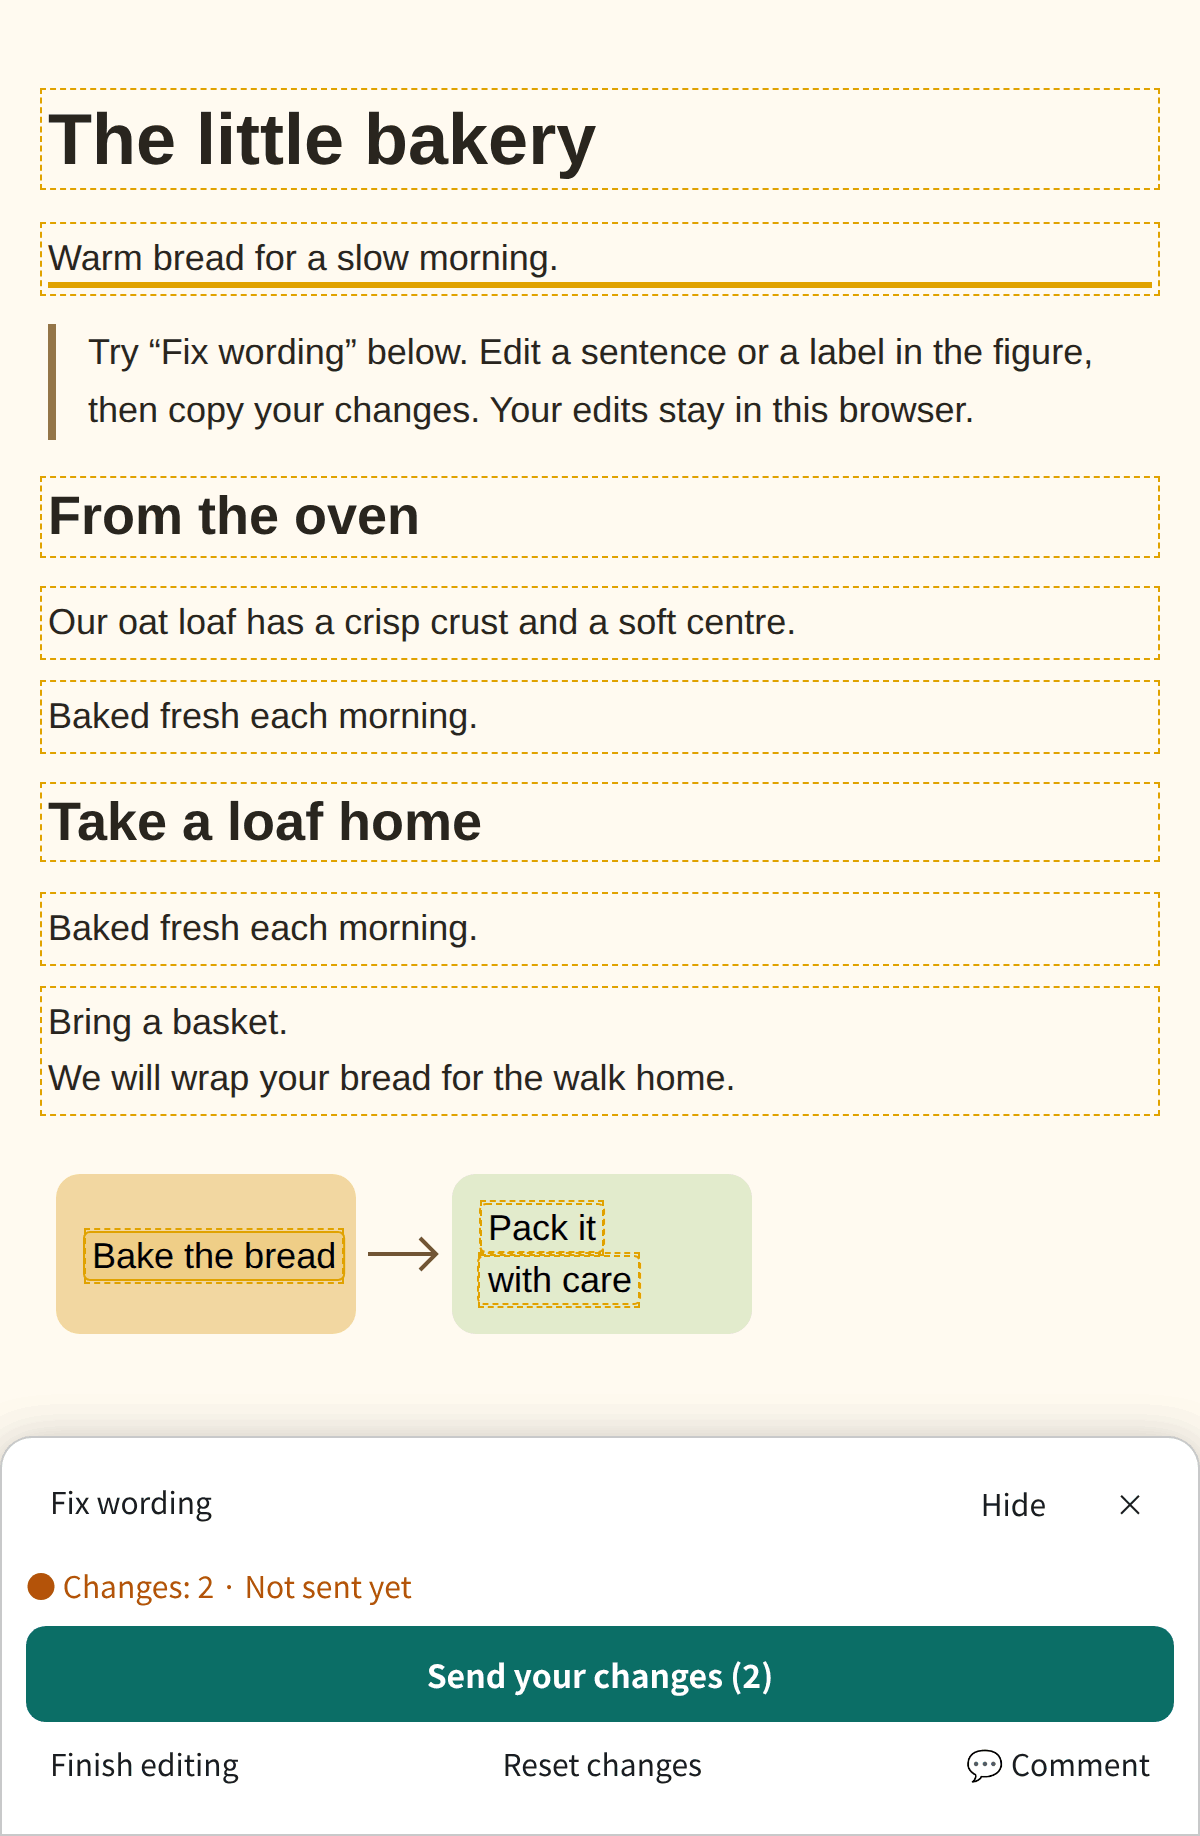
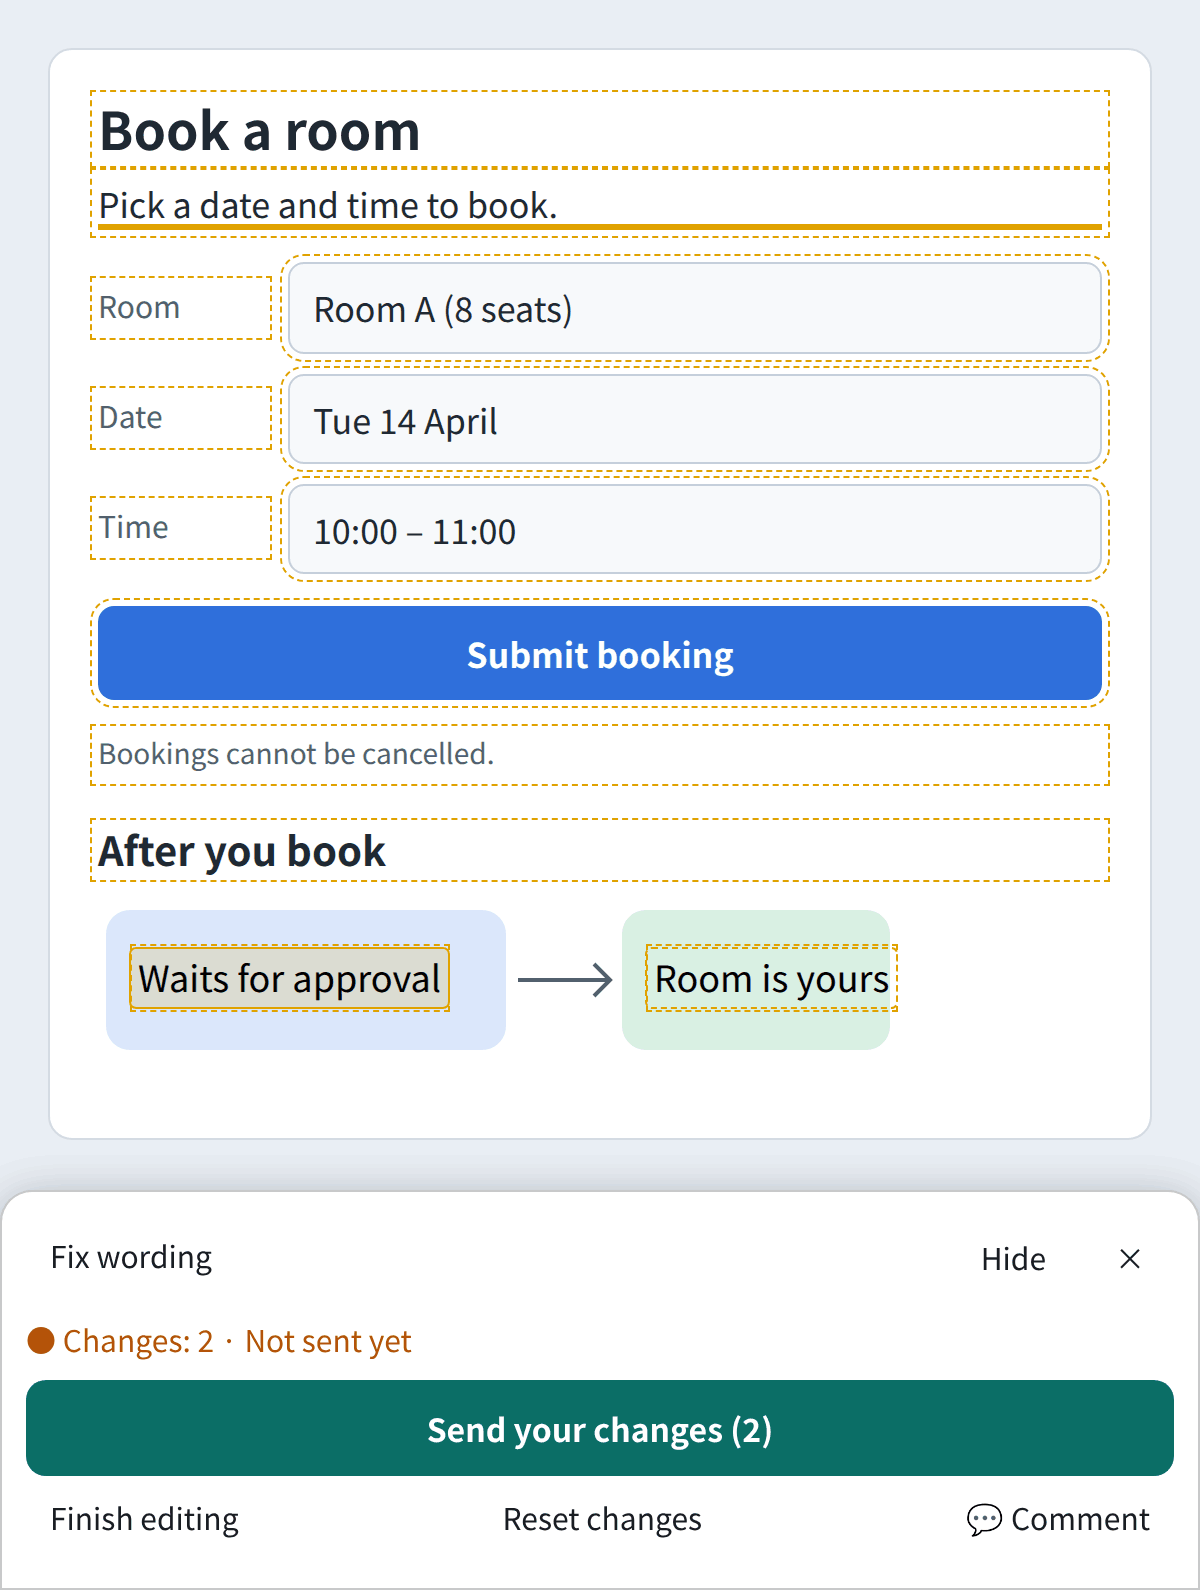
Show a mockup screen instead of the bakery page in the README screenshots
Fixing the wording of a mockup is what the tool is for, so the edit, comment
and paste screenshots now use an invented room-booking screen, and the first
example list in both READMEs is the text the tool produces for the edits shown
in the first screenshot.

diff --git a/docs/images/pages/booking.ja.html b/docs/images/pages/booking.ja.html
@@ -1,0 +1,42 @@
+<!doctype html>
+<html lang="ja">
+<head>
+  <meta charset="utf-8">
+  <meta name="viewport" content="width=device-width, initial-scale=1">
+  <title>会議室予約（モック）</title>
+  <style>
+    body { max-width: 42rem; margin: auto; padding: 24px; font: 17px/1.6 'Noto Sans CJK JP', 'Hiragino Sans', 'Yu Gothic', sans-serif; color: #1f2933; background: #e9eef4; }
+    .card { background: #fff; border: 1px solid #d3dbe4; border-radius: 12px; padding: 24px; }
+    h1, h2 { line-height: 1.2; }
+    h1 { margin: 0 0 8px; font-size: 26px; }
+    h2 { margin: 24px 0 8px; font-size: 20px; }
+    p { margin: 0 0 16px; }
+    .row { display: flex; align-items: center; gap: 12px; margin: 0 0 10px; }
+    .row span { flex: none; width: 5.5em; color: #52606d; font-size: 15px; }
+    .row div { flex: 1; border: 1px solid #c5cfdb; border-radius: 8px; padding: 8px 12px; background: #f7f9fb; }
+    .btn { display: block; margin: 16px 0; padding: 10px 16px; border-radius: 8px; background: #2f6fdb; color: #fff; font-weight: 600; text-align: center; }
+    .note { margin: 0; font-size: 14px; color: #52606d; }
+    svg { display: block; max-width: 100%; height: auto; }
+  </style>
+</head>
+<body>
+  <div class="card">
+    <h1>会議室を予約する</h1>
+    <p>ご希望の日時を選択して予約を行ってください。</p>
+    <div class="row"><span>会議室</span><div>会議室A（8席）</div></div>
+    <div class="row"><span>日付</span><div>4月14日（火）</div></div>
+    <div class="row"><span>時間</span><div>10:00〜11:00</div></div>
+    <div class="btn">予約を送信</div>
+    <p class="note">予約は取り消せません。</p>
+    <h2>予約のあと</h2>
+    <svg viewBox="0 0 400 100" width="400" role="img" aria-label="予約のあとの流れ">
+      <rect x="4" y="10" width="200" height="70" rx="12" fill="#dbe7fb"/>
+      <rect x="262" y="10" width="134" height="70" rx="12" fill="#d9f0e3"/>
+      <path d="M210 45h46m-8-8 8 8-8 8" fill="none" stroke="#52606d" stroke-width="2"/>
+      <text x="20" y="51" font-size="18">承認待ち</text>
+      <text x="278" y="51" font-size="18">利用できます</text>
+    </svg>
+  </div>
+  <script src="../../../fixwords.js"></script>
+</body>
+</html>

diff --git a/docs/images/pages/booking.en.html b/docs/images/pages/booking.en.html
@@ -1,0 +1,42 @@
+<!doctype html>
+<html lang="en">
+<head>
+  <meta charset="utf-8">
+  <meta name="viewport" content="width=device-width, initial-scale=1">
+  <title>Room booking (mockup)</title>
+  <style>
+    body { max-width: 42rem; margin: auto; padding: 24px; font: 17px/1.6 system-ui, -apple-system, "Segoe UI", Helvetica, Arial, sans-serif; color: #1f2933; background: #e9eef4; }
+    .card { background: #fff; border: 1px solid #d3dbe4; border-radius: 12px; padding: 24px; }
+    h1, h2 { line-height: 1.2; }
+    h1 { margin: 0 0 8px; font-size: 26px; }
+    h2 { margin: 24px 0 8px; font-size: 20px; }
+    p { margin: 0 0 16px; }
+    .row { display: flex; align-items: center; gap: 12px; margin: 0 0 10px; }
+    .row span { flex: none; width: 5.5em; color: #52606d; font-size: 15px; }
+    .row div { flex: 1; border: 1px solid #c5cfdb; border-radius: 8px; padding: 8px 12px; background: #f7f9fb; }
+    .btn { display: block; margin: 16px 0; padding: 10px 16px; border-radius: 8px; background: #2f6fdb; color: #fff; font-weight: 600; text-align: center; }
+    .note { margin: 0; font-size: 14px; color: #52606d; }
+    svg { display: block; max-width: 100%; height: auto; }
+  </style>
+</head>
+<body>
+  <div class="card">
+    <h1>Book a room</h1>
+    <p>Please select your desired date and time to make a booking.</p>
+    <div class="row"><span>Room</span><div>Room A (8 seats)</div></div>
+    <div class="row"><span>Date</span><div>Tue 14 April</div></div>
+    <div class="row"><span>Time</span><div>10:00 – 11:00</div></div>
+    <div class="btn">Submit booking</div>
+    <p class="note">Bookings cannot be cancelled.</p>
+    <h2>After you book</h2>
+    <svg viewBox="0 0 400 100" width="400" role="img" aria-label="What happens after booking">
+      <rect x="4" y="10" width="200" height="70" rx="12" fill="#dbe7fb"/>
+      <rect x="262" y="10" width="134" height="70" rx="12" fill="#d9f0e3"/>
+      <path d="M210 45h46m-8-8 8 8-8 8" fill="none" stroke="#52606d" stroke-width="2"/>
+      <text x="20" y="51" font-size="18">Awaiting approval</text>
+      <text x="278" y="51" font-size="18">Room is yours</text>
+    </svg>
+  </div>
+  <script src="../../../fixwords.js"></script>
+</body>
+</html>

diff --git a/docs/images/pages/chat.ja.html b/docs/images/pages/chat.ja.html
@@ -17,7 +17,7 @@
   </style>
 </head>
 <body>
-  <div class="msg author"><div class="avatar">作</div><div class="body"><p class="name">作った人</p><p>パン屋のページを見てくれてありがとう。直した文言の一覧をここに貼ってください。</p></div></div>
+  <div class="msg author"><div class="avatar">作</div><div class="body"><p class="name">作った人</p><p>予約画面を見てくれてありがとう。直した文言の一覧をここに貼ってください。</p></div></div>
   <div class="msg reader"><div class="avatar">直</div><div class="body"><p class="name">直す人</p><pre id="report"></pre></div></div>
 </body>
 </html>

diff --git a/docs/images/pages/chat.en.html b/docs/images/pages/chat.en.html
@@ -17,7 +17,7 @@
   </style>
 </head>
 <body>
-  <div class="msg author"><div class="avatar">A</div><div class="body"><p class="name">Author</p><p>Thanks for looking at the bakery page. Please paste the list of wording fixes here.</p></div></div>
+  <div class="msg author"><div class="avatar">A</div><div class="body"><p class="name">Author</p><p>Thanks for looking at the booking screen. Please paste the list of wording fixes here.</p></div></div>
   <div class="msg reader"><div class="avatar">R</div><div class="body"><p class="name">Reader</p><pre id="report"></pre></div></div>
 </body>
 </html>

diff --git a/README.ja.md b/README.ja.md
@@ -4,20 +4,20 @@
 
 共有したページの文言を、見た人が自分で直せるようにする小さな道具です。
 
-<p><img src="docs/images/edit-ja.png" width="440" alt="文言を直すモードのパン屋のページ。最初の文と図の中の文字が書き換えられて色が付き、下のバーに「2 か所を直しました」と出ている。"></p>
+<p><img src="docs/images/edit-ja.png" width="440" alt="文言を直すモードの会議室予約のモック画面。最初の文と図の中の文字が書き換えられて色が付き、下のバーに「2 か所を直しました」と出ている。"></p>
 
 モックや下書きのページを作って（AI に作らせた場合も含みます）、コードを書かない同僚に見てもらったとします。
 同僚は、直したい言い回しを見つけます。fixwords を入れたページなら、同僚は画面の上でその文字を書き換え、ボタンを1つ
 押して、できた一覧をチャットやメールに貼って送るだけです。
 
 ```
-小さなパン屋 文言の直し
+会議室予約（モック） 文言の直し
 
-1. 元：ゆっくりした朝のための、あたたかいパン。
-   新：ゆっくりした朝に、あたたかいパンを。
+1. 元：ご希望の日時を選択して予約を行ってください。
+   新：使いたい日時を選んで予約します。
 
-2. （図）元：パンを焼く
-   新：パンを焼き上げる
+2. （図）元：承認待ち
+   新：承認を待ちます
 ```
 
 作った人は、届いた一覧どおりに元のファイルを直します。AI に貼って直させることもできます。
@@ -56,7 +56,7 @@ AI に作業させている場合は、こう頼めば済みます。
 5. 「直した内容を送る」を押す。スマホやタブレットでは共有の画面が開きます。パソコンでは一覧がコピーされます。
    それを作った人へのチャットやメールに貼って送ります。
 
-<p><img src="docs/images/comment-ja.png" width="440" alt="コメントモードのパン屋のページ。ある文には保存済みのコメントがあり点線の下線が付いている。別の文にはコメント欄が開いて質問が書かれている。"></p>
+<p><img src="docs/images/comment-ja.png" width="440" alt="コメントモードの会議室予約のモック画面。最初の文には保存済みのコメントがあり点線の下線が付いている。取り消しについての注意書きにはコメント欄が開いて質問が書かれている。"></p>
 
 送る一覧は次のようになります。コメントは直しのあとに続きます。
 
@@ -75,7 +75,7 @@ AI に作業させている場合は、こう頼めば済みます。
 
 チャットに貼ったところ:
 
-<p><img src="docs/images/paste-ja.png" width="440" alt="直す人が一覧をチャットに貼ったところ。2か所の書き換えと1件のコメントが並んでいる。"></p>
+<p><img src="docs/images/paste-ja.png" width="440" alt="直す人が一覧をチャットに貼ったところ。2か所の書き換えと、取り消しについての注意書きへの1件のコメントが並んでいる。"></p>
 
 直した内容とコメントは、そのブラウザーの中（localStorage）に残ります。ページを閉じても、あとで続きができます。
 一覧を送るまでは、誰にも届きません。

diff --git a/README.md b/README.md
@@ -4,20 +4,20 @@
 
 Let the people you shared a page with fix its wording themselves.
 
-<p><img src="docs/images/edit-en.png" width="440" alt="A bakery page in edit mode. The first sentence and a label in the figure were rewritten and are highlighted, and the fixwords bar at the bottom shows 2 changes."></p>
+<p><img src="docs/images/edit-en.png" width="440" alt="A room booking mockup in edit mode. The lead sentence and a label in the figure were rewritten and are highlighted, and the fixwords bar at the bottom shows "Changes: 2"."></p>
 
 You made a mockup or a draft page (perhaps with an AI coding agent) and sent it to colleagues who do not write
 code. They spot wording they would change. With fixwords on the page they rewrite the text right where they see
 it, press one button, and paste the result into a chat or an email to you:
 
 ```
-The little bakery — Wording changes
+Room booking (mockup) — Wording changes
 
-1. Before: Warm bread for a slower morning.
-   After: Warm bread for a slow morning.
+1. Before: Please select your desired date and time to make a booking.
+   After: Pick a date and time to book.
 
-2. (figure) Before: Bake the loaf
-   After: Bake the bread
+2. (figure) Before: Awaiting approval
+   After: Waits for approval
 ```
 
 You apply the list to the source yourself, or paste it to your agent.
@@ -58,7 +58,7 @@ Working with a coding agent? Ask it:
 5. Press **Send your changes**. On a touch device (phone, tablet) the share sheet opens; on a computer the list
    is copied to the clipboard. Paste it into a chat or an email to the author.
 
-<p><img src="docs/images/comment-en.png" width="440" alt="Comment mode on the bakery page: one comment is saved on a sentence, shown with a dotted underline, and a comment box with a question is open on another sentence."></p>
+<p><img src="docs/images/comment-en.png" width="440" alt="Comment mode on the room booking mockup: one comment is saved on the lead sentence, shown with a dotted underline, and a comment box with a question is open on the cancellation note."></p>
 
 The list looks like this. Comments come after the edits:
 
@@ -77,7 +77,7 @@ Spring menu draft — Wording changes
 
 Pasted into a chat:
 
-<p><img src="docs/images/paste-en.png" width="440" alt="A chat where the reader has pasted the list of changes: two rewrites and one comment."></p>
+<p><img src="docs/images/paste-en.png" width="440" alt="A chat where the reader has pasted the list of changes: two rewrites and one comment on the cancellation note."></p>
 
 Edits and comments are kept in that browser (localStorage) until they are reset, so the reader can close the page and come
 back. They are not shared with anyone until the reader sends the list.
